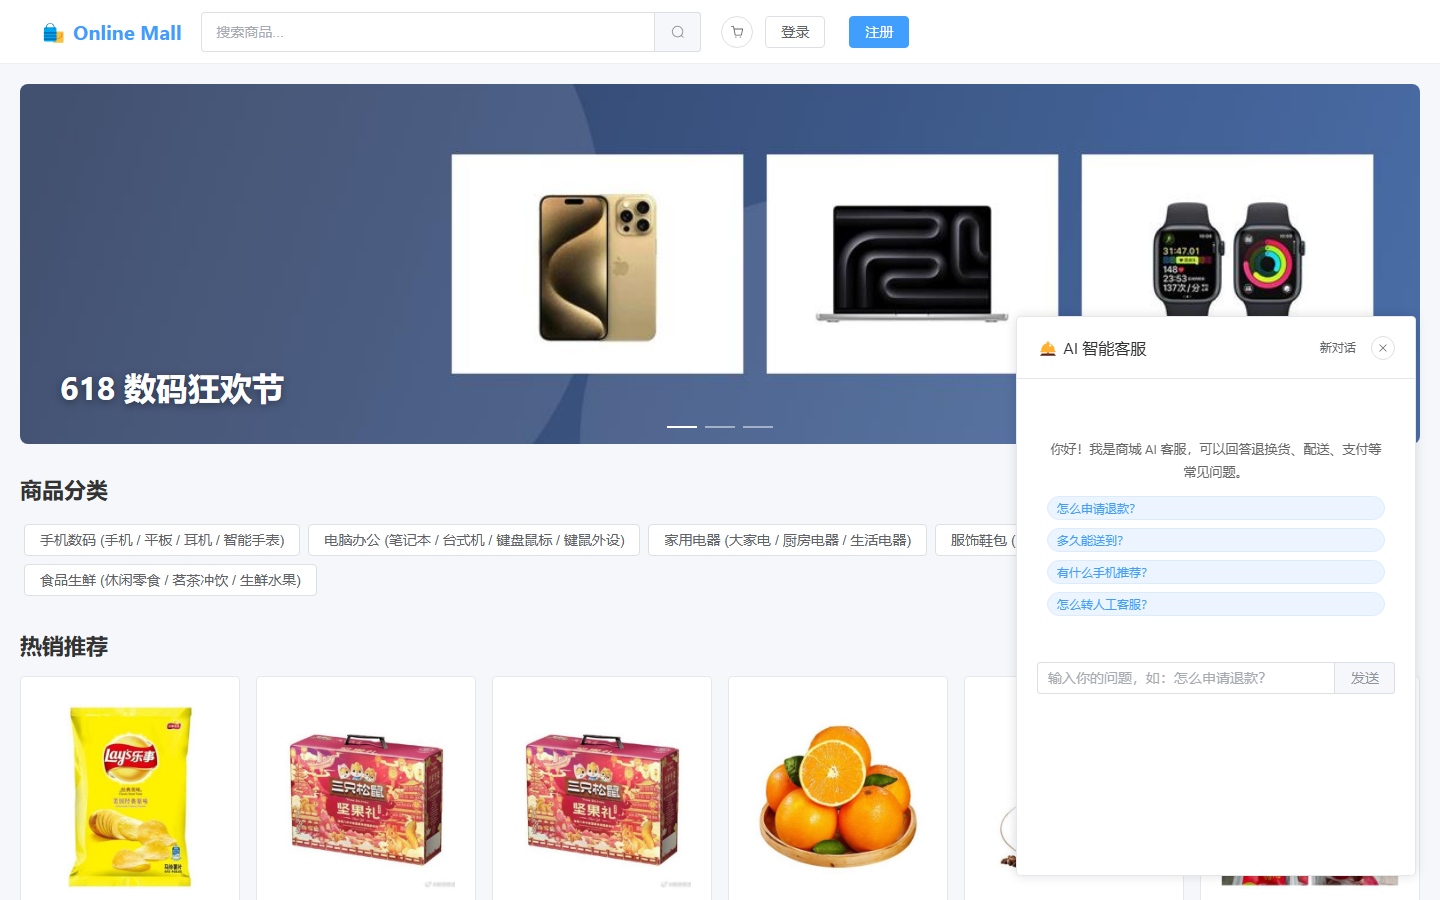
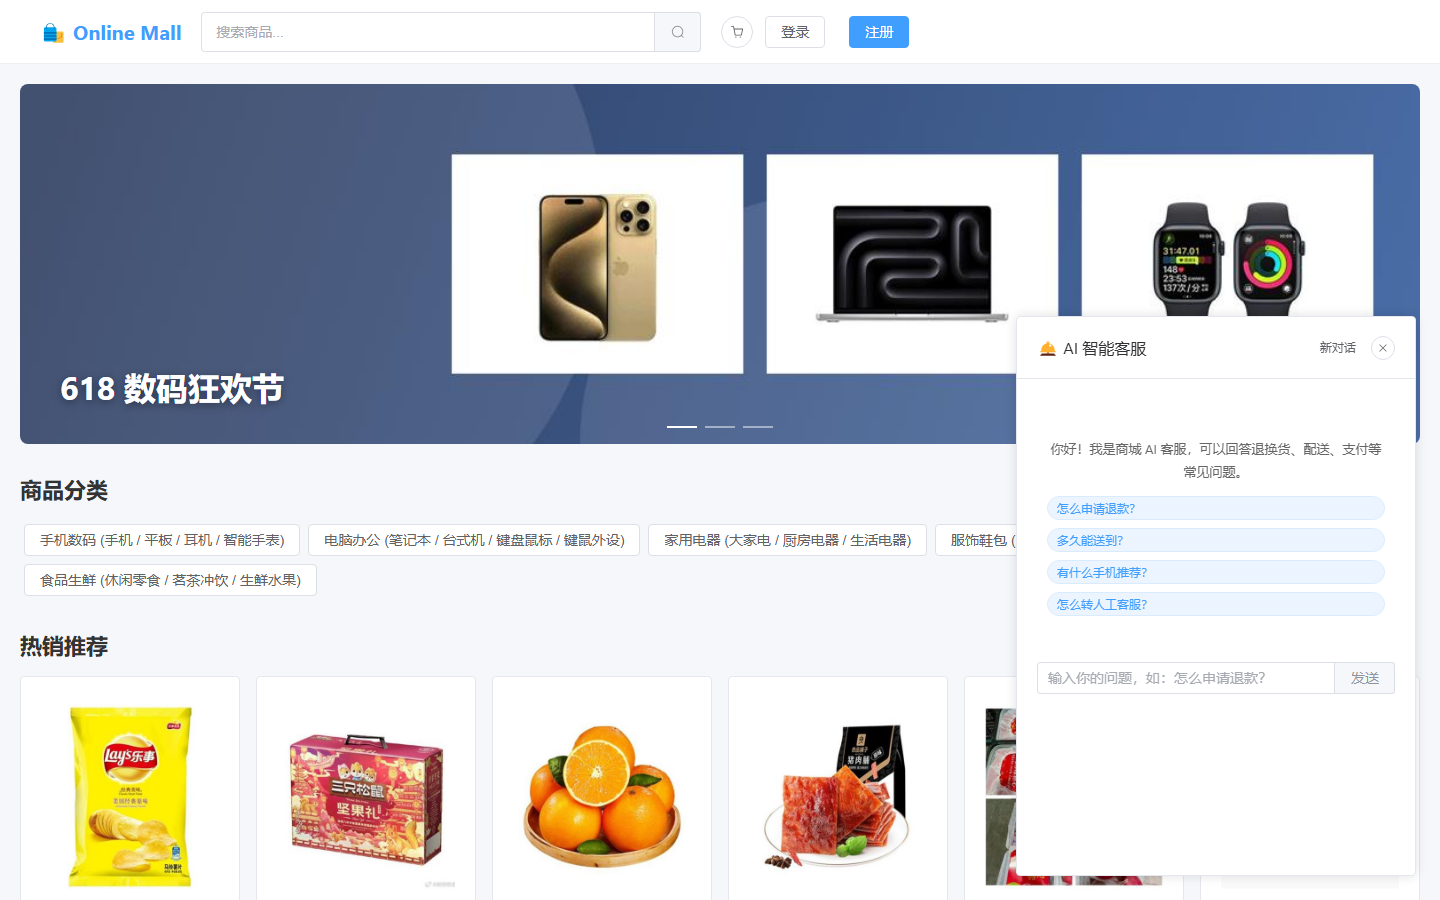
fix(security): python-jose 迁移到 PyJWT，消除认证链路的 CVE
## 为什么

`python-jose==3.3.0` 有 4 条已知 CVE（算法混淆、解压型 DoS 等），而它承担
**全部认证**——是项目里风险最高的一个依赖。同时它的依赖 `ecdsa` 又带 1 条。

## 迁移面

全仓只有 `app/core/security.py` 用到它，且只用到 `encode` / `decode` 两个函数。
两处行为差异都做了核实：

1. **异常类型**：jose 的 `JWTError` → PyJWT 的 `InvalidTokenError`
   （`ExpiredSignatureError` / `InvalidSignatureError` 都是它的子类），
   现有「失败一律返回 None」的收敛逻辑不变。
2. **令牌格式**：两者都是标准 JWS、**互相可解**。实测两个方向
   （jose 签发 → PyJWT 解码，以及反向）都通过——
   所以升级不会让已登录用户掉线，回滚也无需重新登录。

`decode` 保持显式传 `algorithms=[...]`。这正是抵御算法混淆攻击的关键，
不能为了省事改成从 token 头里读算法。

## 一个反直觉的教训（值得记录）

第一次把版本钉在 **pyjwt==2.10.1**，重新扫描后发现**它自己带 17 条 CVE**
（修复点分布在 2.12 ~ 2.15），比 python-jose 的 4 条还多——换完之后反而更差。

这说明**「换一个更活跃的库」不等于「更安全」**，必须用扫描结果验证而不是凭印象。
最终定位到 **2.15.1**（0 条），并实测新旧版本行为一致（encode 返回 str、
过期/签名错误都抛 `InvalidTokenError` 子类）。

## 结果

- 漏洞总数 **39 → 34**，涉及包 **11 → 9**
- `python-jose` 与 `ecdsa` 完全移除（已 uninstall 并确认应用正常导入）
- 基线相应收紧（`scripts/security-baseline.json` 减少 15 行，无新增）
- `scripts/BASELINE.md` 新增 D 组「已解决」，记录这次迁移与上面那个教训

## 验证

- 后端 **127 个用例全通过**，ruff 干净
- 认证链路端到端实测：
  - 登录签发 token（119 字符，标准 JWS 头）
  - 带 token 访问 `/auth/me` → 正确返回用户
  - 无 token → 403；篡改 token → 401（都正确拒绝）
  - 管理员 token 访问后台看板 → 正常
- **e2e 13/13 全绿**，其中包含「后台能用管理员账号登录并进入看板」——
  这是对 JWT 迁移最直接的验证（真实浏览器 → 真实认证 → 真实后台）

Changed region(s): [[0.3438, 0.7778, 0.8125, 0.9956], [0.8438, 0.9644, 0.9688, 0.9956]]

diff --git a/backend/app/core/security.py b/backend/app/core/security.py
@@ -1,8 +1,26 @@
 from datetime import datetime, timedelta, timezone
 from typing import Optional
-from jose import jwt, JWTError
+
+import jwt
+from jwt import InvalidTokenError
 import bcrypt
+
 from app.core.config import settings
+
+# 从 python-jose 迁到 PyJWT 的原因与验证记录：
+#
+# python-jose 3.3.0 有 4 条已知 CVE（含算法混淆与解压型 DoS），而它承担
+# **全部认证**——项目里最高风险的一个依赖。PyJWT 是同类库中维护更活跃的选择。
+#
+# 迁移面极小：全仓只有本文件用到它，且只用到 encode / decode 两个函数。
+# 两处行为差异都已核实：
+#   1. 异常类型：jose 的 `JWTError` 对应 PyJWT 的 `InvalidTokenError`
+#      （`ExpiredSignatureError` / `InvalidSignatureError` 都是它的子类）；
+#   2. 令牌格式：两者都是标准 JWS，**互相可解**。已实测「jose 签发 → PyJWT 解码」
+#      与反向都能通过，所以升级不会让已登录用户掉线，回滚也无需重新登录。
+#
+# 注意 PyJWT 的 decode 必须显式传 `algorithms=[...]`（不接受默认值），
+# 这正是抵御算法混淆攻击的关键——不要为了省事把它写成从 token 头里读。
 
 
 def hash_password(password: str) -> str:
@@ -28,7 +46,14 @@ def create_access_token(data: dict, expires_delta: Optional[timedelta] = None) -
 
 
 def decode_access_token(token: str) -> Optional[dict]:
+    """解码并校验 token；无效/过期/签名错误一律返回 None。
+
+    调用方（依赖注入、限流里的身份识别）只关心「有没有身份」，不区分失败原因，
+    所以这里统一收敛成 None——也避免把「签名不对」和「过期」的差异暴露出去。
+    """
     try:
-        return jwt.decode(token, settings.jwt_secret_key, algorithms=[settings.jwt_algorithm])
-    except JWTError:
+        return jwt.decode(
+            token, settings.jwt_secret_key, algorithms=[settings.jwt_algorithm]
+        )
+    except InvalidTokenError:
         return None

diff --git a/scripts/BASELINE.md b/scripts/BASELINE.md
@@ -6,7 +6,8 @@
 ## 现状
 
 用 `pip-audit -r backend/requirements.txt` 扫描的结果：
-**39 条漏洞，分布在 11 个包**（不含 pip / setuptools 这类工具链自身的条目）。
+**34 条漏洞，分布在 9 个包**（不含 pip / setuptools 这类工具链自身的条目）。
+> 建档时是 39 条 / 11 个包，`python-jose` → PyJWT 迁移后降到现在的数字（见 D 组）。
 
 基线文件：`scripts/security-baseline.json`（由脚本自动生成，请勿手改）。
 
@@ -50,10 +51,27 @@ bash scripts/security-audit.sh --update   # 重新生成基线（需人工 revie
 
 | 包 | 当前 | 建议 |
 |---|---|---|
-| `python-jose` | 3.3.0 | 4 条 CVE。**只用在 `security.py` 的 `jwt.encode/decode`**，改造成本很低，建议优先处理（或整体迁移到 PyJWT） |
-| `ecdsa` | 0.19.2 | `python-jose` 的依赖，随它一起解决 |
 | `chromadb` | 1.5.9 | 4 条，向量库；升级需重新验证索引读写 |
 | `python-dotenv` | 1.0.1 | 1 条，影响很小，可随时升 |
+
+### D. 已解决（保留记录，说明这个机制真的在用）
+
+**`python-jose` 3.3.0 → PyJWT 2.15.1**：4 条 CVE + 其依赖 `ecdsa` 的 1 条，共 5 条已消除。
+
+它承担**全部认证**，是当时风险最高的依赖。迁移面很小（全仓只有 `security.py`
+用到 `encode`/`decode` 两个函数），两处行为差异都做了核实：
+
+1. 异常类型：jose 的 `JWTError` → PyJWT 的 `InvalidTokenError`
+   （`ExpiredSignatureError` / `InvalidSignatureError` 都是它的子类）；
+2. 令牌格式：两者都是标准 JWS，**互相可解**。实测「jose 签发 → PyJWT 解码」
+   与反向都通过，因此升级不会让已登录用户掉线，回滚也无需重新登录。
+
+**一个值得记住的教训**：第一次把 `pyjwt` 钉在 `2.10.1`，扫描后发现它自己带
+**17 条 CVE**（修复点分布在 2.12 ~ 2.15），比 python-jose 的 4 条还多。
+说明「换一个更活跃的库」不等于「更安全」——**必须用扫描结果验证，而不是凭印象**。
+最终选 `2.15.1`，0 条。
+
+结果：漏洞总数 **39 → 34**，包数 11 → 9。
 
 ## 为什么当初会漏掉这件事
 

diff --git a/README.md b/README.md
@@ -306,10 +306,11 @@ CI 里有一个独立的 `e2e` 任务跑这套用例（起 MySQL + Redis + API +
 
 诚实地列在这里，避免面试时被动：
 
-- **依赖里有 39 条已知漏洞未修**（`scripts/BASELINE.md` 有逐条说明）。主要是
+- **依赖里有 34 条已知漏洞未修**（`scripts/BASELINE.md` 有逐条说明）。主要是
   `starlette` / `python-multipart` 受 FastAPI 0.115 的版本约束、以及互相强耦合的
-  `langchain` 生态；`python-jose` 那 4 条改造成本低，应优先处理。
-  这些 CVE 的利用前提多为特定配置，本项目 demo 形态下暴露面有限，但**上生产前必须处理**；
+  `langchain` 生态。这些 CVE 的利用前提多为特定配置，本项目 demo 形态下暴露面有限，
+  但**上生产前必须处理**。认证用的 `python-jose`（当时风险最高，承担全部认证）
+  已迁到 PyJWT 2.15.1，消掉 5 条；
 - 备份脚本只覆盖 MySQL。Redis（缓存/限流状态）与上传的商品图没有纳入备份范围；
 - 回滚只回滚数据，代码回滚需要手动 `git checkout` + 重新构建，没有做成一键脚本；
 - 重排只在 CPU 上跑（每条问题约 0.6 秒），也没做重排结果缓存；上生产要么换 GPU，

diff --git a/docs/resume-project.md b/docs/resume-project.md
@@ -51,7 +51,10 @@
   实测「转储 → 校验 → 恢复到临时库 → 比对表数与行数」全流程通过（15 张表、
   products 65 行一致）。**没实测过恢复就等于没有备份。**
   依赖侧接入 `pip-audit` 与 Dependabot，用**基线模式**而非全量卡死：
-  新引入的漏洞立即让 CI 失败，39 条存量漏洞逐条登记不升的理由与解除条件。
+  新引入的漏洞立即让 CI 失败，34 条存量漏洞逐条登记不升的理由与解除条件；
+  已把承担全部认证的 `python-jose`（4 条 CVE）迁到 PyJWT，并验证了令牌跨库兼容
+  以保证升级不掉线；迁移中先用 2.10.1 发现它自身仍有 17 条 CVE，最终定位到 2.15.1
+  ——**「换个更活跃的库」不等于「更安全」，必须用扫描结果验证**。
   「只防自己写的代码、不防第三方依赖」是我发现的一个典型安全盲区。
 
 - **AI 链路可观测（AI 工程化）**：给 RAG 全链路补上原本**完全缺失**的埋点——
